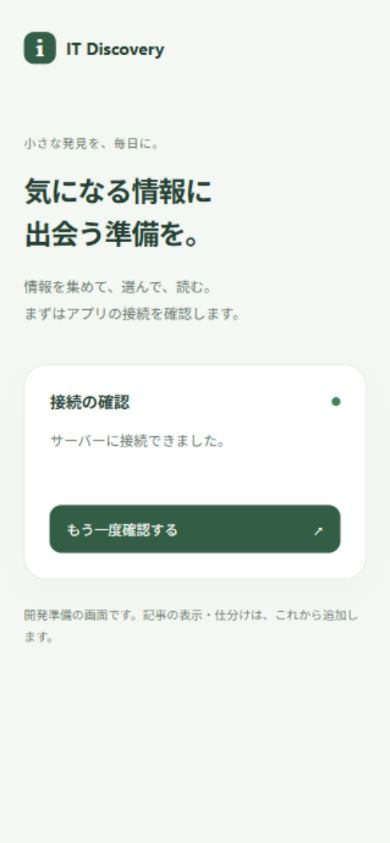
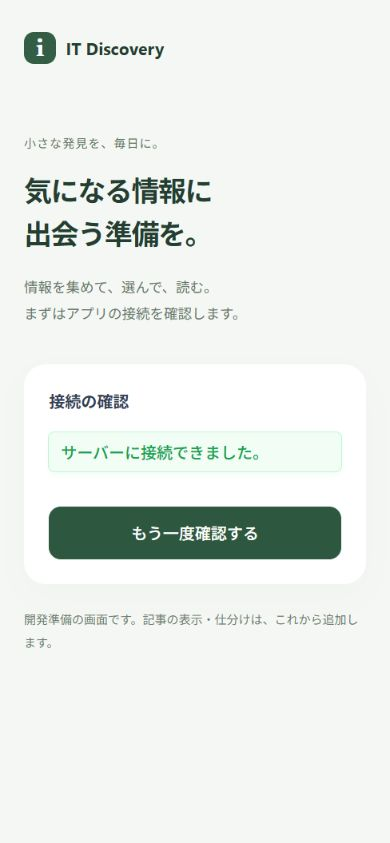
feat(web): 接続確認画面をPrimeVueの部品に置き換える

diff --git a/apps/web/src/app/App.vue b/apps/web/src/app/App.vue
@@ -1,5 +1,8 @@
 <script setup lang="ts">
 import { onMounted } from 'vue';
+import Button from 'primevue/button';
+import Card from 'primevue/card';
+import Message from 'primevue/message';
 import { ApiClient } from '../infrastructure/api/api-client';
 import { useConnectionCheck } from '../features/connection/useConnectionCheck';
 
@@ -16,17 +19,45 @@ onMounted(checkConnection);
       <h1>気になる情報に<br />出会う準備を。</h1>
       <p class="description">情報を集めて、選んで、読む。<br />まずはアプリの接続を確認します。</p>
     </section>
-    <section class="connection-card" :aria-busy="status === 'checking'">
-      <div class="card-heading"><h2>接続の確認</h2><span class="status-dot" :class="status" aria-hidden="true"></span></div>
-      <div role="status" aria-live="polite" class="result">
-        <p v-if="status === 'idle' || status === 'checking'">接続を確認しています…</p>
-        <p v-else>{{ message }}</p>
-      </div>
-      <button type="button" :disabled="status === 'checking'" @click="checkConnection">
-        {{ status === 'checking' ? '確認中…' : status === 'error' ? 'もう一度試す' : 'もう一度確認する' }}
-        <span aria-hidden="true">↗</span>
-      </button>
-    </section>
+    <Card class="connection-card" :aria-busy="status === 'checking'">
+      <template #title><h2>接続の確認</h2></template>
+      <template #content>
+        <div class="result">
+          <Message
+            :severity="status === 'error' ? 'error' : status === 'ready' ? 'success' : 'info'"
+            :closable="false"
+            :pt="{ root: { role: 'status', 'aria-live': 'polite' } }"
+          >
+            {{ status === 'idle' || status === 'checking' ? '接続を確認しています…' : message }}
+          </Message>
+        </div>
+      </template>
+      <template #footer>
+        <Button
+          type="button"
+          fluid
+          :label="status === 'checking' ? '確認中…' : status === 'error' ? 'もう一度試す' : 'もう一度確認する'"
+          :loading="status === 'checking'"
+          :disabled="status === 'checking'"
+          @click="checkConnection"
+        />
+      </template>
+    </Card>
     <p class="footnote">開発準備の画面です。記事の表示・仕分けは、これから追加します。</p>
   </main>
 </template>
+
+<style scoped>
+.page { max-width: 470px; min-height: 100svh; margin: auto; padding: 32px 24px; }
+.brand { display: flex; align-items: center; gap: 10px; font-size: 17px; font-weight: 700; }
+.brand-mark { display: grid; place-items: center; width: 32px; height: 32px; border-radius: 10px; color: white; background: var(--p-primary-color); font-family: Georgia, serif; font-size: 23px; }
+.intro { margin-top: 70px; }
+.eyebrow { color: #5c7564; font-size: 12px; letter-spacing: .07em; }
+h1 { margin: 18px 0; font-size: clamp(28px, 7vw, 36px); line-height: 1.55; letter-spacing: -.04em; }
+.description { color: #657569; font-size: 14px; line-height: 1.9; }
+.connection-card { margin-top: 38px; }
+h2 { margin: 0; font-size: inherit; }
+.result { min-height: 78px; padding-top: 12px; }
+.footnote { margin-top: 24px; color: #6f7d71; font-size: 12px; line-height: 1.9; }
+@media (max-width: 350px) { .page { padding: 24px 18px; } .intro { margin-top: 45px; } }
+</style>

diff --git a/apps/web/src/app/style.css b/apps/web/src/app/style.css
@@ -8,24 +8,3 @@
 }
 * { box-sizing: border-box; }
 body { margin: 0; }
-button { font: inherit; }
-.page { max-width: 470px; min-height: 100svh; margin: auto; padding: 32px 24px; }
-.brand { display: flex; align-items: center; gap: 10px; font-size: 17px; font-weight: 700; }
-.brand-mark { display: grid; place-items: center; width: 32px; height: 32px; border-radius: 10px; color: white; background: #335d45; font-family: Georgia, serif; font-size: 23px; }
-.intro { margin-top: 70px; }
-.eyebrow { color: #5c7564; font-size: 12px; letter-spacing: .07em; }
-h1 { margin: 18px 0; font-size: clamp(28px, 7vw, 36px); line-height: 1.55; letter-spacing: -.04em; }
-.description { color: #657569; font-size: 14px; line-height: 1.9; }
-.connection-card { margin-top: 38px; padding: 25px; background: white; border: 1px solid #e2e9df; border-radius: 22px; box-shadow: 0 12px 35px #243e3205; }
-.card-heading { display: flex; align-items: center; justify-content: space-between; }
-h2 { margin: 0; font-size: 16px; }
-.status-dot { width: 9px; height: 9px; border-radius: 50%; background: #bbc5ba; }
-.status-dot.ready { background: #41835b; }
-.status-dot.error { background: #b66342; }
-.result { min-height: 78px; color: #657569; font-size: 14px; line-height: 1.8; }
-button { display: flex; align-items: center; justify-content: space-between; width: 100%; padding: 14px 17px; border: 0; border-radius: 12px; background: #335d45; color: white; font-size: 14px; cursor: pointer; }
-button:hover:not(:disabled) { background: #284e38; }
-button:disabled { opacity: .6; cursor: wait; }
-button:focus-visible { outline: 3px solid #8dab76; outline-offset: 4px; }
-.footnote { margin-top: 24px; color: #6f7d71; font-size: 12px; line-height: 1.9; }
-@media (max-width: 350px) { .page { padding: 24px 18px; } .intro { margin-top: 45px; } }
